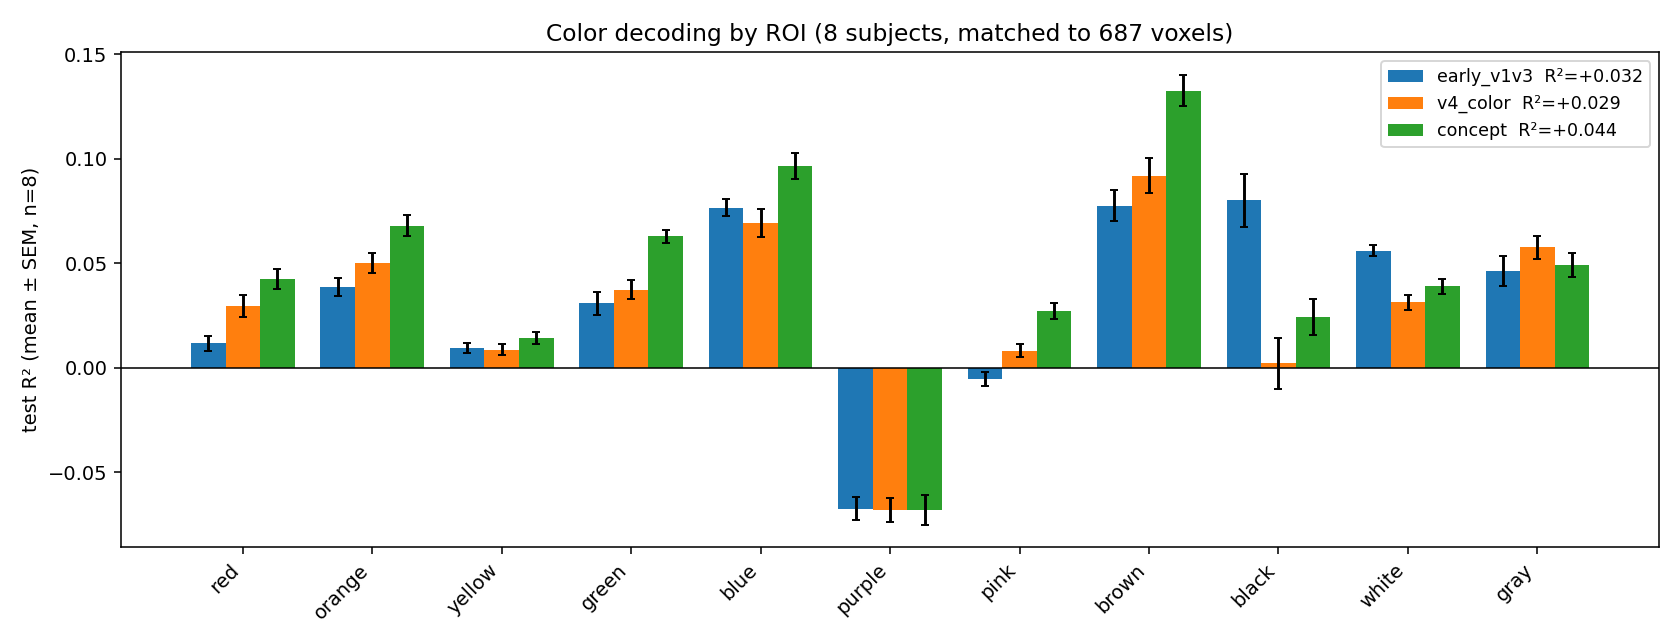
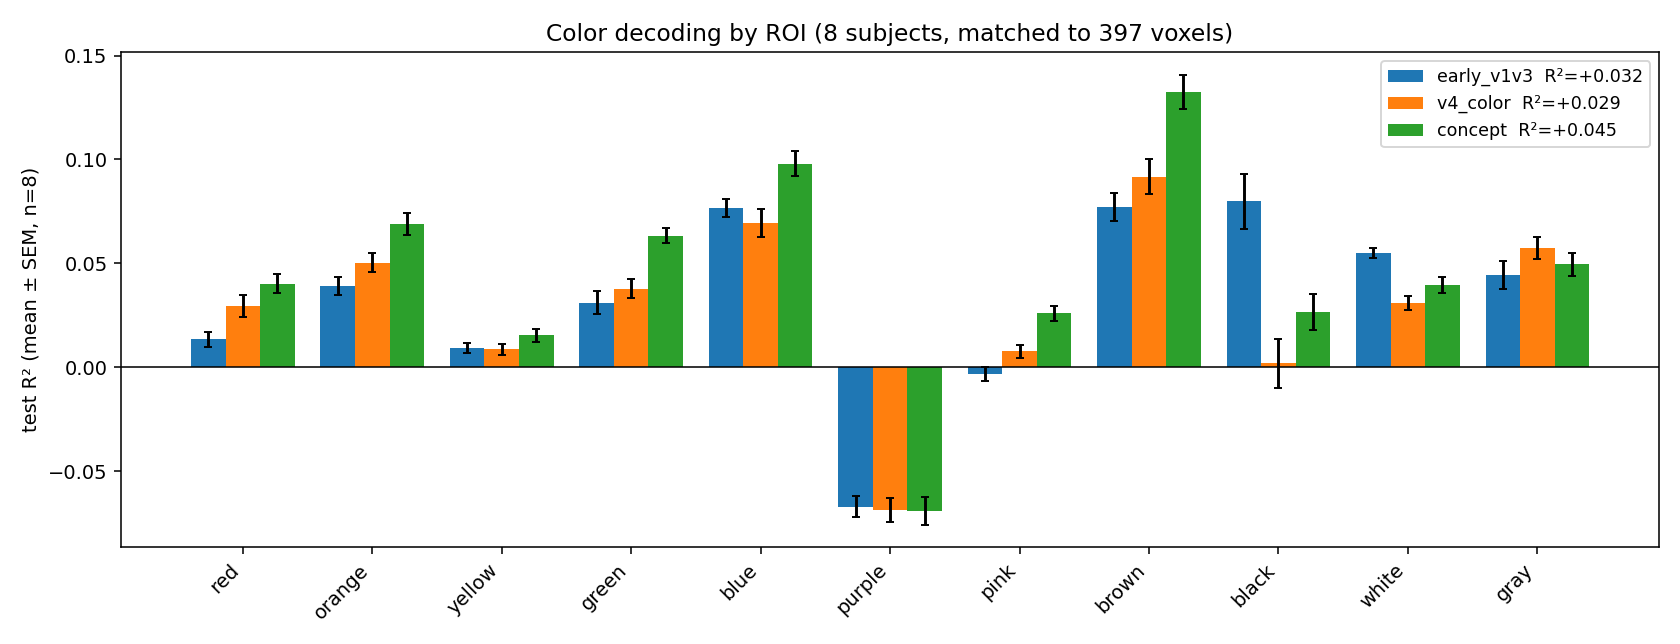
Correct matched k to 397 (smallest V4 across subjects); regenerate all figures + numbers at 25 draws

diff --git a/brain2vision/replicate_subjects.py b/brain2vision/replicate_subjects.py
@@ -13,7 +13,7 @@ per-subject mean is then averaged across subjects.
 Usage
 -----
     python -m brain2vision.replicate_subjects --subjects 1 2 5 7 \
-        --color-targets data/color_targets.npy --n-draws 5 \
+        --color-targets data/color_targets.npy --n-draws 25 \
         --out roi_color_4subj.png
 
 Downloads each subject's betas on first use (~1.5 GB each), then caches them.
@@ -56,7 +56,9 @@ def main():
                    help="Path to a target .npy (color, luminance, ...)")
     p.add_argument("--labels", default=None,
                    help="Comma-separated column names; default = 11 colors")
-    p.add_argument("--n-draws", type=int, default=5)
+    p.add_argument("--n-draws", type=int, default=25,
+                   help="Random voxel subsamples per ROI, averaged. The result "
+                        "is insensitive to this (draw variance << subject SEM).")
     p.add_argument("--match-voxels", type=int, default=0)
     p.add_argument("--out", default="roi_color_4subj.png")
     args = p.parse_args()

diff --git a/brain2vision/compare_rois.py b/brain2vision/compare_rois.py
@@ -13,7 +13,7 @@ which voxels we happened to pick. Alpha is still tuned per fit (RidgeCV).
 Usage
 -----
     python -m brain2vision.compare_rois --subj 1 \
-        --color-targets data/color_targets.npy --n-draws 10 \
+        --color-targets data/color_targets.npy --n-draws 25 \
         --out roi_color_matched.png
 """
 
@@ -54,7 +54,7 @@ def main():
     p = argparse.ArgumentParser()
     p.add_argument("--subj", type=int, default=1)
     p.add_argument("--color-targets", required=True)
-    p.add_argument("--n-draws", type=int, default=10)
+    p.add_argument("--n-draws", type=int, default=25)
     p.add_argument("--match-voxels", type=int, default=0,
                    help="Target voxel count; 0 = use the smallest ROI's size")
     p.add_argument("--out", default="roi_color_matched.png")

diff --git a/REPORT.md b/REPORT.md
@@ -104,9 +104,12 @@ concept → 43k), all overfitting vanished, and now higher visual cortex looked
 
 **3. Bigger ROIs win just by having more voxels.** More voxels = more signal,
 regardless of per-voxel selectivity. So I **matched voxel count**: subsample every
-ROI to the smallest one's size (V4's 687), decode, and average over 10 random
-draws. Only after this is the comparison about color information *per unit of
-cortex*.
+ROI to the smallest V4 across subjects (397 voxels, set by subject 7 — V4 ranges
+from 397 to 687 across the eight), decode, and average over repeated random draws
+(25 by default). This makes the comparison about color information
+*per unit of cortex*. The exact draw count matters little — the draw-to-draw
+variability is far smaller than the across-subject SEM the error bars report, so
+the draws just stabilize each subject's estimate.
 
 **4. Replication.** I repeated the matched analysis across subjects — first the
 four who completed all 40 sessions (1, 2, 5, 7), then all 8 (adding the
@@ -126,7 +129,8 @@ it.)
 ## Results
 
 All numbers below are across **all 8 NSD subjects** (mean ± SEM), each ROI
-subsampled to 687 voxels with alpha tuned per fit. Adding the four
+subsampled to 397 voxels (the smallest V4 across subjects) with alpha tuned per
+fit. Adding the four
 reduced-session subjects (3, 4, 6, 8) to the four complete ones lowers the
 absolute R² a little and tightens the error bars — the pattern is unchanged.
 
@@ -134,14 +138,14 @@ absolute R² a little and tightens the error bars — the pattern is unchanged.
 
 | ROI | overall R² | top-1 |
 |---|---|---|
-| concept (higher visual) | **0.044 ± 0.004** | 0.237 ± 0.004 |
-| early_v1v3 | 0.032 ± 0.004 | 0.247 ± 0.004 |
-| v4_color | 0.029 ± 0.004 | 0.233 ± 0.004 |
+| concept (higher visual) | **0.045 ± 0.004** | 0.239 ± 0.004 |
+| early_v1v3 | 0.032 ± 0.004 | 0.246 ± 0.004 |
+| v4_color | 0.029 ± 0.004 | 0.234 ± 0.004 |
 
 All ROIs decode the dominant color well above the 0.091 chance baseline. With
 size and regularization controlled, **higher visual cortex decodes color best** —
-a gap that is reliable across the full cohort (0.044 vs 0.032, well beyond the
-combined SEM).
+a gap that is reliable across the full cohort (0.045 vs 0.032, ~2.3× the combined
+SEM).
 
 ![color by ROI](figures/fig1_color_by_roi.png)
 
@@ -155,12 +159,12 @@ are unreliable everywhere: too few training examples.
 
 | ROI | overall luminance R² |
 |---|---|
-| early_v1v3 | **0.029 ± 0.003** |
-| concept | 0.016 ± 0.002 |
+| early_v1v3 | **0.029 ± 0.004** |
+| concept | 0.017 ± 0.003 |
 | v4_color | 0.012 ± 0.003 |
 
 For brightness the order **flips**: early visual leads, V4 drops to last, and at
-n = 8 early's lead over higher visual is now reliable (0.029 vs 0.016, ~3.6× the
+n = 8 early's lead over higher visual is reliable (0.029 vs 0.017, ~2.4× the
 combined SEM — it was only marginal at n = 4). The within-region contrast is also
 notable: higher visual and V4 are ~2× color-biased (better at chromatic color
 than at brightness), while **early visual is balanced** across the two.
@@ -169,7 +173,7 @@ than at brightness), while **early visual is balanced** across the two.
 
 The luminance signal is concentrated in the **dark bins** (L0–L2), where early
 visual dominates (L1 = 0.099, the single strongest luminance value anywhere) and
-V4 is near zero or negative (L0 = −0.006). This corroborates the "black" color
+V4 is near zero or negative (L0 = −0.007). This corroborates the "black" color
 result from an independent target.
 
 ## Interpretation

diff --git a/docs/methods.md b/docs/methods.md
@@ -193,15 +193,16 @@ badly the "answer" changes at each step):
    Fix: `RidgeCV` tunes `alpha` per fit (the chosen alpha scales with ROI size).
 2. **Voxel count.** Even properly regularized, a bigger ROI decodes better just
    from having more voxels. Fix: subsample every ROI to the smallest one's size
-   (V4's ~687), decode, and average over several random draws.
+   (the smallest V4 across subjects — 397 voxels for the 8-subject cohort),
+   decode, and average over several random draws.
 3. **Single-subject noise.** Fix: replicate across subjects and report mean ± SEM.
 
 `compare_rois` applies steps 1–2 for one subject; `replicate_subjects` adds
 step 3.
 
 ```bash
-# one subject, voxel-matched, 10 draws
-python -m brain2vision.compare_rois --subj 1 --color-targets data/color_targets.npy --n-draws 10
+# one subject, voxel-matched, 25 draws
+python -m brain2vision.compare_rois --subj 1 --color-targets data/color_targets.npy --n-draws 25
 
 # across subjects, matched — color, then luminance (any target via --target/--labels)
 python -m brain2vision.replicate_subjects --subjects 1 2 3 4 5 6 7 8 --target data/color_targets.npy --out roi_color_8subj.png
@@ -209,12 +210,13 @@ python -m brain2vision.replicate_subjects --subjects 1 2 3 4 5 6 7 8 --target da
     --labels L0,L1,L2,L3,L4,L5,L6,L7,L8,L9,L10 --out roi_luminance_8subj.png
 ```
 
-Each ROI is matched to 687 voxels; `replicate_subjects` reports per-subject and
+Each ROI is matched to the smallest V4 across subjects (397 voxels for all 8);
+`replicate_subjects` reports per-subject and
 across-subject (mean ± SEM) R²/top-1 and saves a figure plus a `_summary.npy`.
 
 ### Result
 
-The clean, replicated finding (all 8 subjects, matched to 687 voxels):
+The clean, replicated finding (all 8 subjects, matched to 397 voxels):
 
 ![color decoding by ROI](../figures/fig1_color_by_roi.png)
 

diff --git a/README.md b/README.md
@@ -74,7 +74,7 @@ python -m brain2vision.replicate_subjects --subjects 1 2 3 4 5 6 7 8 \
     --out roi_luminance_8subj.png
 ```
 
-Result (8 subjects, matched to 687 voxels — see [`REPORT.md`](REPORT.md)):
+Result (8 subjects, matched to 397 voxels — see [`REPORT.md`](REPORT.md)):
 
 ![color decoding by ROI](figures/fig1_color_by_roi.png)
 
